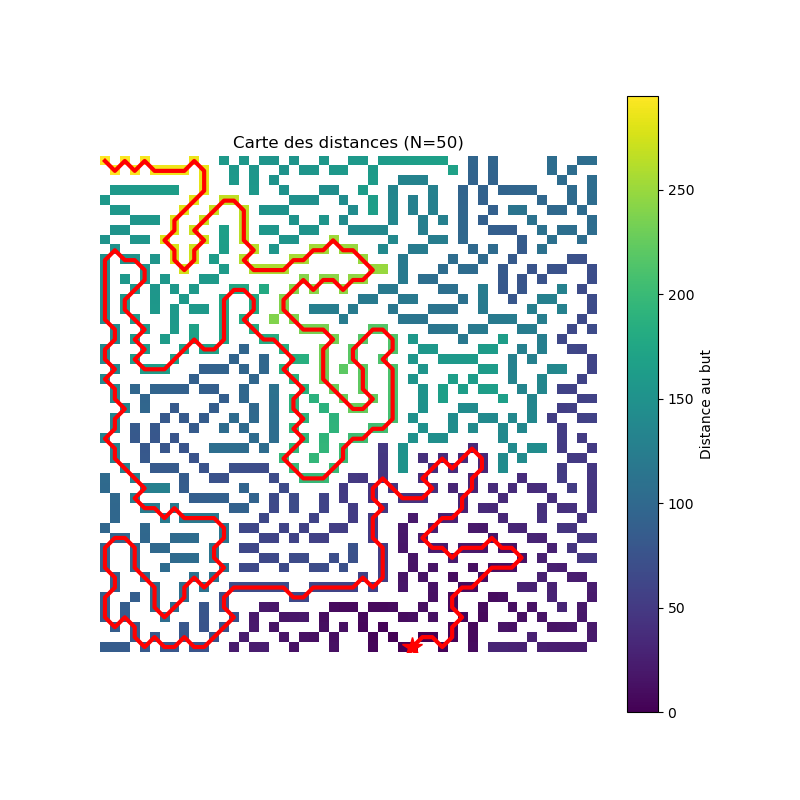
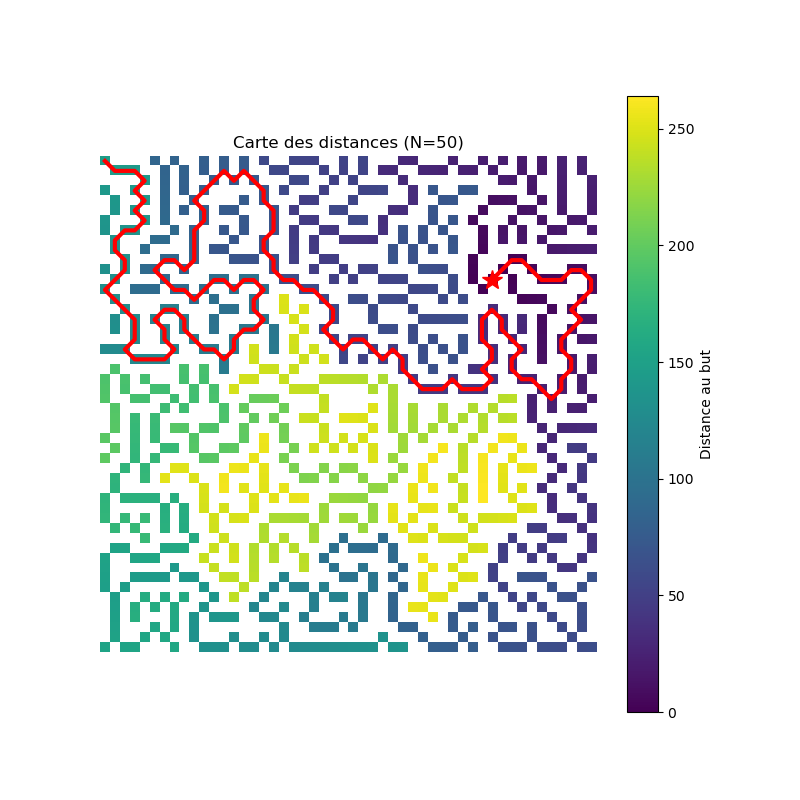
first commit

diff --git a/main.py b/main.py
@@ -144,7 +144,7 @@ def main():
     # HYPERPARAMETR§ES
     MAX_GEN = 50
     TS = 0.5
-    TM = 0.08
+    TM = 0.4
     POPULATION_SIZE = 100
     GENOME_LENGTH = N * 3
     USE_PHEROMONES = True
